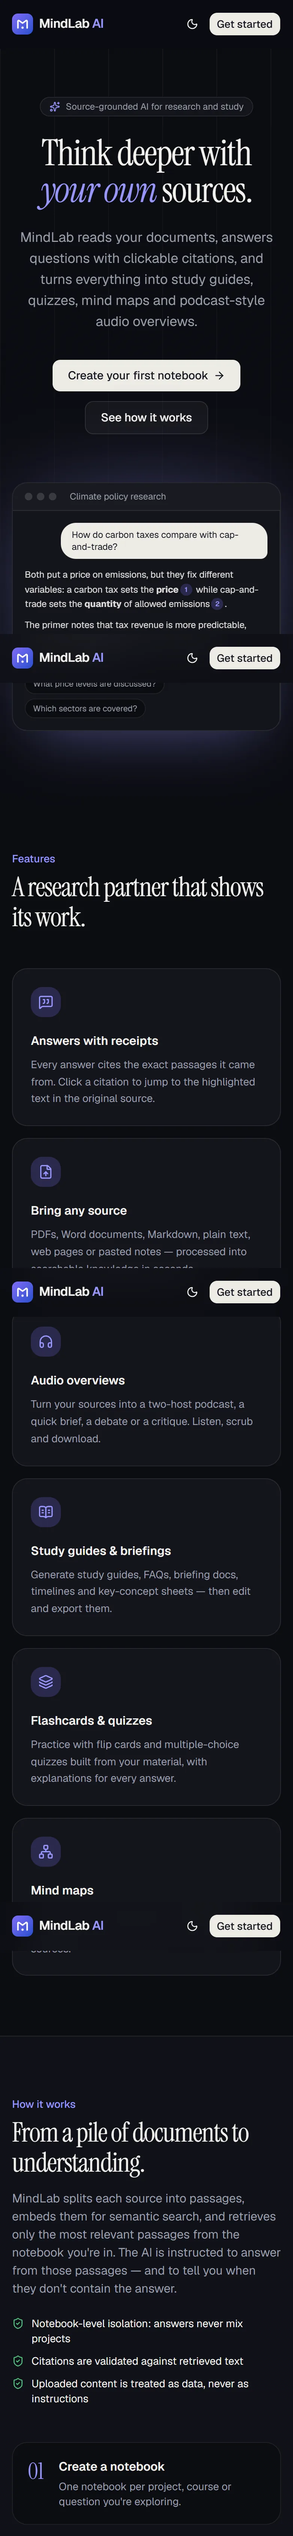
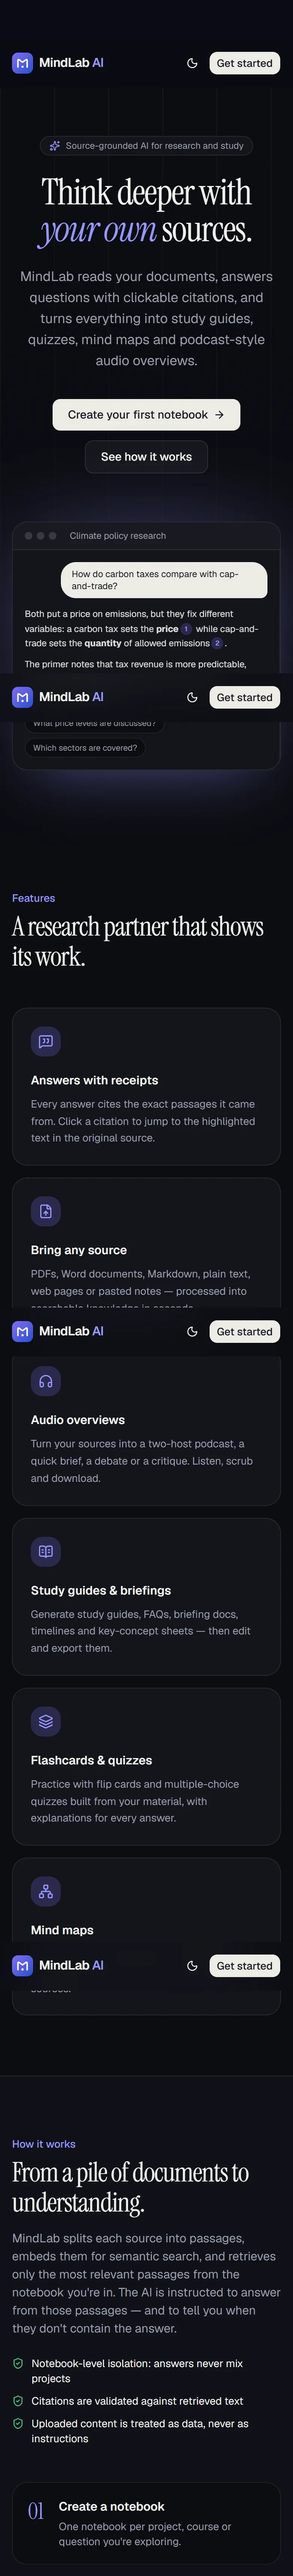
Show the app cards without links
None of the six App Development cards link anywhere now: no live site
and no GitHub button. As on the source, a card without a link shows a
short note instead ("Screens from the app"). Web Development and UI/UX
Design keep their "Visit live site" buttons. MindLab's phone screen now
starts below the status bar, so its header no longer sits under the clock.

diff --git a/src/components/sites/portfolio/rooms.ts b/src/components/sites/portfolio/rooms.ts
@@ -8,9 +8,10 @@ export type Project = {
   sub: string;
   desc: string;
   tags: string[];
-  url: string;
-  /** Button text for the link; defaults to "Visit live site". */
-  linkLabel?: string;
+  /** Live site, shown as a "Visit live site" button. Without one, the card shows a short note instead, as on the source. */
+  url?: string;
+  /** The note shown when there is no link; defaults to "Screens from the app". */
+  note?: string;
   /** Tall screenshot that scrolls on the monitor or phone screen. */
   shot: string;
   /** App icon shown beside the label (apps only). */
@@ -105,7 +106,6 @@ export const ROOMS: RoomInfo[] = [
         sub: "Source-grounded research and study",
         desc: "Upload your documents and ask questions with clickable citations, then turn everything into study guides, flashcards, quizzes, mind maps and podcast-style audio overviews.",
         tags: ["AI", "Citations", "Study tools"],
-        url: "https://mindlab-ai-psi.vercel.app",
         shot: shot("app-mindlab"),
         icon: shot("icon-mindlab"),
       },
@@ -115,7 +115,6 @@ export const ROOMS: RoomInfo[] = [
         sub: "AI food guide for Saveetha campus · Streamlit",
         desc: "An AI guide to the best food on campus, powered by Google Gemini: ask what to eat, where to find it and what's good today, and get answers in a friendly chat.",
         tags: ["Gemini AI", "Python", "Streamlit"],
-        url: "https://ai-chatbot-pvj39rjn32zxtyxtlqrehq.streamlit.app/",
         shot: shot("app-chatbot"),
         icon: shot("icon-chatbot"),
       },
@@ -125,7 +124,6 @@ export const ROOMS: RoomInfo[] = [
         sub: "Filter-coffee house · since 1983",
         desc: "A retro app for a Mylapore filter-coffee house: a 3D brass davara-tumbler on a sunburst, Tamil and English lettering, and an account to log in and order.",
         tags: ["3D", "Accounts & login", "Retro brand look"],
-        url: "https://kaapi-kadai-sail22.vercel.app",
         shot: shot("app-kaapi"),
         icon: shot("icon-kaapi"),
       },
@@ -135,8 +133,6 @@ export const ROOMS: RoomInfo[] = [
         sub: "AI personal planner",
         desc: "Describe a goal in plain English, like an exam in 18 days, and it builds a day-by-day plan around the hours you're free, with a dashboard, study streak and auto-rescheduling for missed sessions. Uses Gemini, or a built-in planner with no key.",
         tags: ["Gemini AI", "Planning", "JavaScript"],
-        url: "https://github.com/Guru1315/AI-Personal-Agent",
-        linkLabel: "View on GitHub",
         shot: shot("app-planai"),
         icon: shot("icon-planai"),
       },
@@ -146,8 +142,6 @@ export const ROOMS: RoomInfo[] = [
         sub: "Multi-agent software dev team",
         desc: "Give it a feature request and a team of AI agents (product manager, architect, developer and tester) writes the spec, design, code and tests, with a supervisor looping fixes until it passes. Built in Flowise and n8n, with a live web console.",
         tags: ["Multi-agent AI", "n8n & Flowise", "Supabase"],
-        url: "https://github.com/Guru1315/Develop-Team",
-        linkLabel: "View on GitHub",
         shot: shot("app-devteam"),
         icon: shot("icon-devteam"),
       },
@@ -157,8 +151,6 @@ export const ROOMS: RoomInfo[] = [
         sub: "Built on the open-source Surelock Homes",
         desc: "Pick a ZIP code and the agent checks licensed childcare providers against public records, comparing licensed capacity with the building's size, Street View and business listings, and flags anomalies for further review.",
         tags: ["AI agent", "Public data", "Python"],
-        url: "https://github.com/Guru1315/AI-Fraud-Investigation",
-        linkLabel: "View on GitHub",
         shot: shot("app-fraud"),
         icon: shot("icon-fraud"),
       },

diff --git a/src/components/sites/portfolio/Room.tsx b/src/components/sites/portfolio/Room.tsx
@@ -140,9 +140,13 @@ export function Room({ room }: { room: RoomInfo }) {
                         <li key={t}>{t}</li>
                       ))}
                     </ul>
-                    <a className="live" href={p.url} target="_blank" rel="noopener noreferrer">
-                      {p.linkLabel ?? "Visit live site"} {ARROW}
-                    </a>
+                    {p.url ? (
+                      <a className="live" href={p.url} target="_blank" rel="noopener noreferrer">
+                        Visit live site {ARROW}
+                      </a>
+                    ) : (
+                      <span className="note">{p.note ?? "Screens from the app"}</span>
+                    )}
                   </div>
                   <div className={`stage${phone ? " ph" : ""}`} aria-hidden="true">
                     {phone ? (
